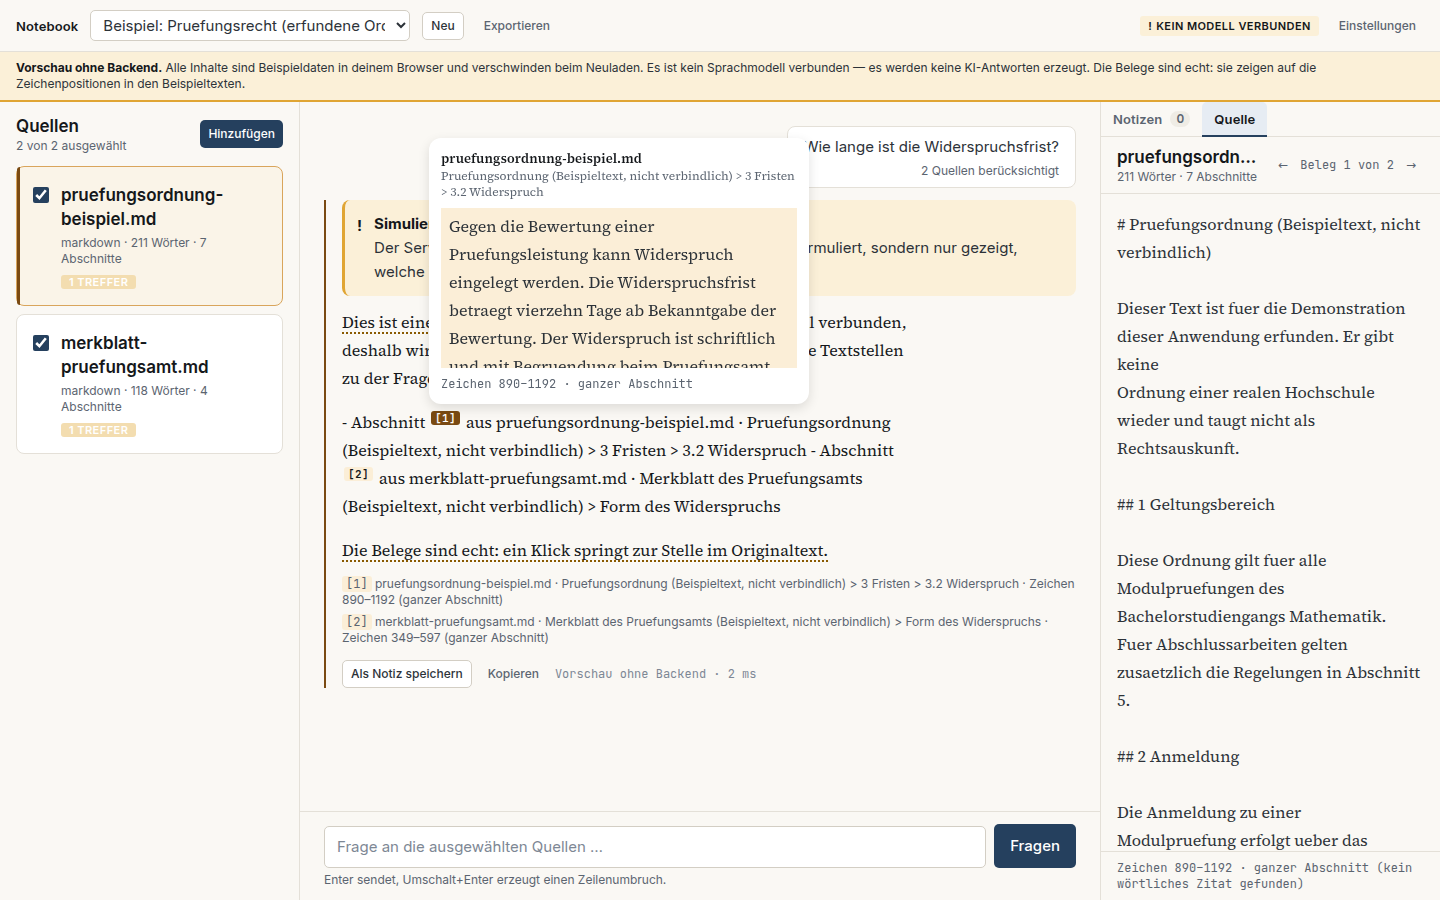
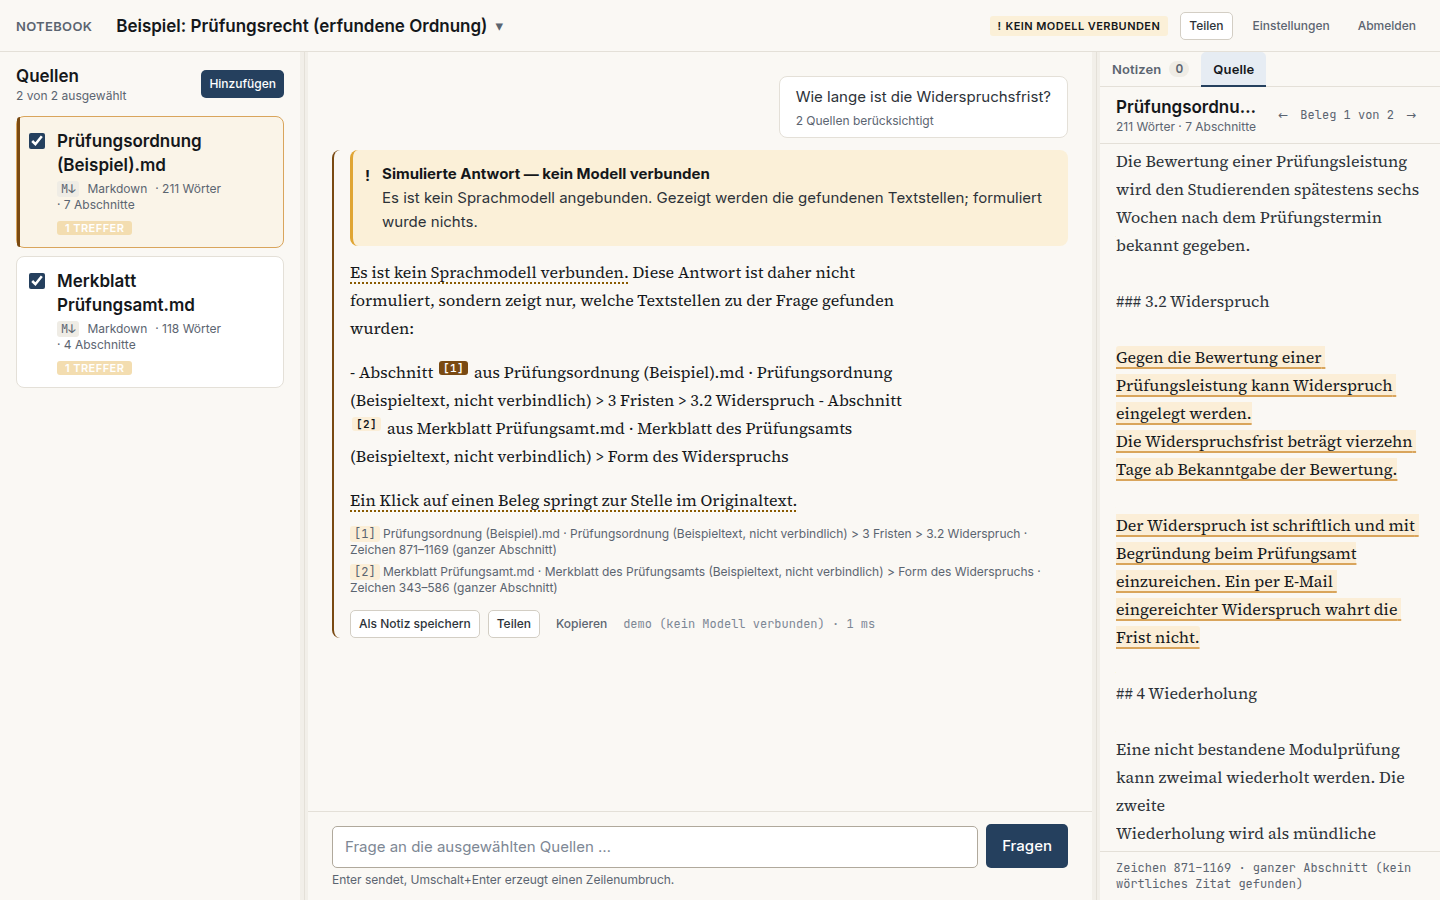
docs(readme): Funktionen ergaenzt, Bildschirmfotos nach dem Umbau neu aufgenommen
Claude-Session: https://claude.ai/code/session_0128MfRazZg2pXJFPWUTSf1p

diff --git a/README.md b/README.md
@@ -10,6 +10,11 @@ Verbindliche Arbeitsregeln: [`AGENTS.md`](AGENTS.md).
 
 ## So sieht es aus
 
+Oberfläche auf **Deutsch und Englisch**; die Einführung beim ersten Start fragt Sprache und
+Design ab. Quellen kommen als Text, Datei oder **Adresse** (Webseite, Text-/JSON-Endpunkt)
+hinein; **Teilen** exportiert das Notebook oder eine einzelne Antwort als Markdown, Word,
+PDF oder PNG. Die Spalten lassen sich am Trenner ziehen.
+
 Drei Designs, in den **Einstellungen** umschaltbar, je hell und dunkel. Die Komponenten
 kennen kein Design — ein Design ist nur ein Satz von Farb-, Schrift- und Radius-Werten
 (`tools/build-theme.py`). In jedem Design ist ein Zitat die einzige Stelle in der
@@ -55,10 +60,14 @@ Abschnitt 11).
 
 ### Einstellungen
 
-Design und Erscheinungsbild (System, Hell, Dunkel). Änderungen wirken sofort und bleiben
-auf dem Gerät gespeichert.
+Sprache, Design und Erscheinungsbild (System, Hell, Dunkel). Änderungen wirken sofort und
+bleiben auf dem Gerät gespeichert.
 
-![Dialog „Einstellungen" mit den drei Designs und den drei Erscheinungsbildern](docs/bilder/einstellungen.png)
+![Dialog „Einstellungen" mit Sprache, den drei Designs und den drei Erscheinungsbildern](docs/bilder/einstellungen.png)
+
+### Einführung beim ersten Start
+
+![Einführung, Schritt 1 von 3: Sprache wählen](docs/bilder/einfuehrung.png)
 
 ## Schnellstart
 
@@ -142,5 +151,5 @@ Was tatsächlich funktioniert und was offen ist, steht in
 [`docs/progress.md`](docs/progress.md) — nicht hier, damit es nicht veraltet.
 
 Nicht-Ziele dieser Version: Nutzerkonten, Zusammenarbeit, Audio- und Videogenerierung,
-Website-Crawling, umfangreiche Vektor-Infrastruktur. PDFs sind als spätere Erweiterung
-vorgesehen.
+Website-Crawling (eine einzelne Adresse als Quelle geht), umfangreiche
+Vektor-Infrastruktur. PDFs sind als spätere Erweiterung vorgesehen.
